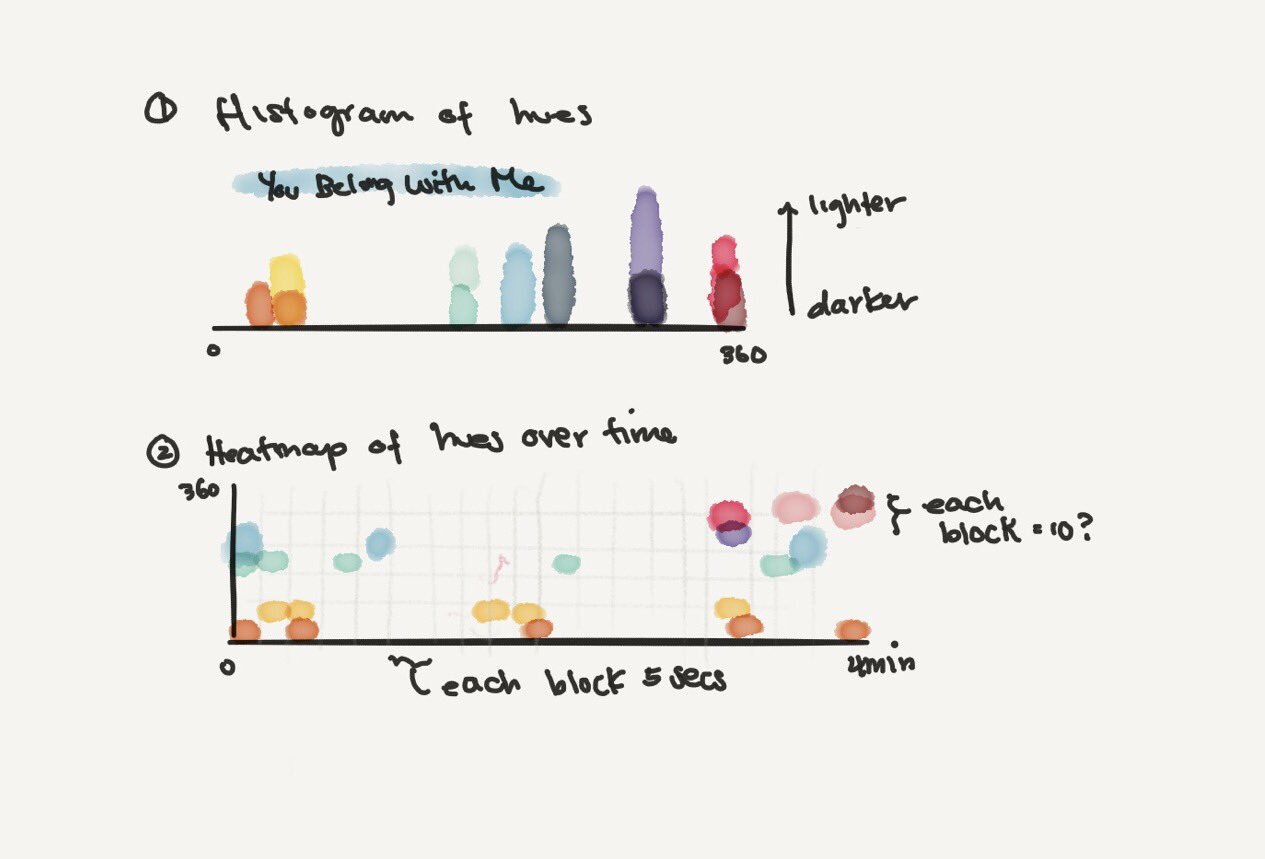
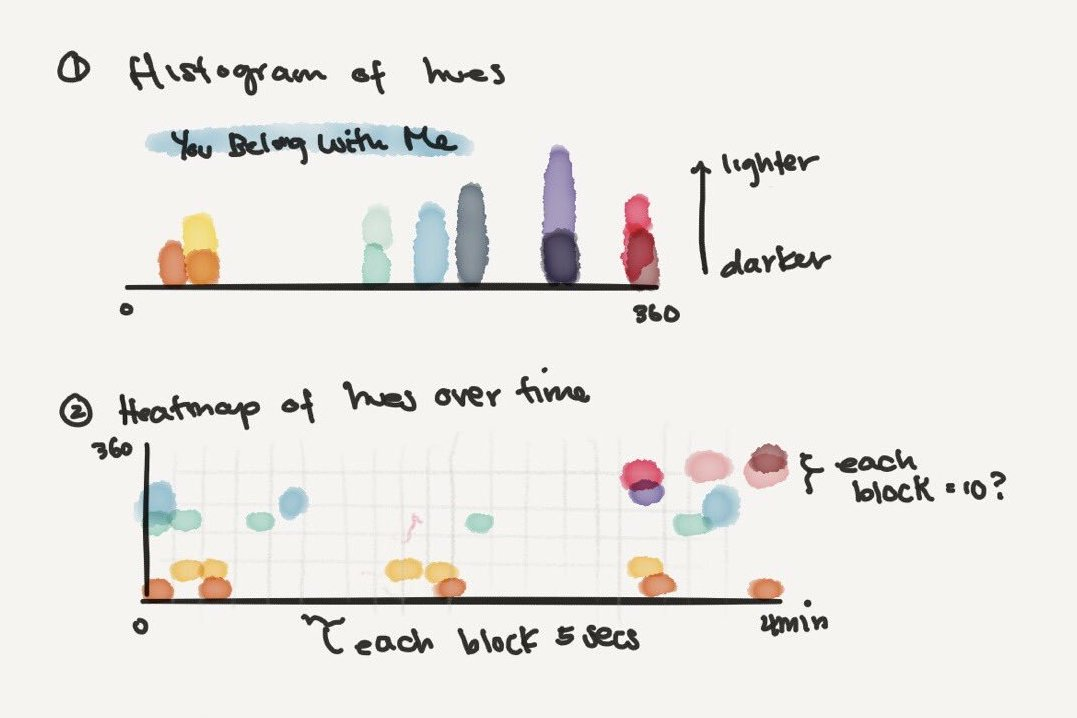
June version 1 writeup

diff --git a/june/index.html b/june/index.html
@@ -290,19 +290,70 @@
                   <li>For every image, grab the RGB information for every 5 pixels.  Plug all the colors into <a href='https://harthur.github.io/clusterfck/' target='_new'>clusterfck</a>, a Node package for hierarchical clustering (no longer maintained).  Save each cluster color and size (<a href='https://github.com/sxywu/taytay/blob/master/scripts/getClusterColors.js' target='_new'>getClusterColors.js</a>).</li>
                 </ol>
 
-                This was the result scene by scene (the x-axis is the hue, and the y-axis is the lightness):
+                This was the result scene by scene (the x-axis is the hue, and the y-axis is the lightness), which was pretty cool:
                 <a class="fancybox" href="code/shirley/v1_byscene.jpg"> <img src="code/shirley/v1_byscene.jpg" class="img-responsive img-month"></a>
                 And by video:
                 <a class="fancybox" href="code/shirley/v1_byvideo.png"> <img src="code/shirley/v1_byvideo.png" class="img-responsive img-month"></a>
+
+                I liked being able to see all the colors by video, but I didn't like that there was so much overlap.  So I thought of having a histogram of all the hues in a video, and a heatmap underneath so that I could see the spread of the colors scene by scene:
+                <a class="fancybox" href="sketch/shirley/tswift_sketch.jpg"> <img src="sketch/shirley/tswift_sketch.jpg" class="img-responsive img-month"></a>
+
+                The histogram turned out to be very aesthetically pleasing:
+                <a class="fancybox" href="code/shirley/histogram_light.png"> <img src="code/shirley/histogram_light.png" class="img-responsive img-month"></a>
+                <a class="fancybox" href="code/shirley/histogram_dark.png"> <img src="code/shirley/histogram_dark.png" class="img-responsive img-month"></a>
+                But I'm not sure if it told me anything other than that her MVs have a lot of oranges and blues.  Which makes sense, since most of the oranges are various lightness/saturations of her skin tone, and the blues are commonly used to dramatically complement the orange.  Nothing new or mind-blowing there.
               </p>
 
+              <p>
+                I tried to add in the heatmap for every song, where the x-axis is still the hue, but the y-axis is the time in the music video.  For some of the songs, like "Fifteen", I could see distinct scene changes:
+                <a class="fancybox" href="code/shirley/heatmap.png"> <img src="code/shirley/heatmap.png" class="img-responsive img-month"></a>
+                But for most of the songs there weren't anything too interesting to comment on, and the visualizations for each song took up too much screenspace.  I wasn't quite sure how to go forward with what I had, and for some reason I thought that if I wasn't getting (what I thought was) interesting with the detailed view, then I had to dig even <em>deeper</em>.
+              </p>
 
+              <p>
+                So I decided to build a tool where I could <em>filter each image by hue or saturation</em>.  It was so extra.  To accomplish it, I read the image data using Canvas and sent that image data (and the range of hue and saturation to filter by) to a Web Worker that looped through each pixel in the image and decided whether it could be kept or not.  I also tried using the GPU since each of the pixel calculations were self-contained, but (I think I was doing something wrong) it turned out to be slower than just using the Web Worker.  At one point, I even tried to send the data to the GPU from within the Web Worker, but found out that it wasn't supported in most browsers (this was early 2018).  It was all so unnecessary.  I think I just wanted to do it because it was technically fun, and it had nothing to do with whether the end result would be a good user experience.
+              </p>
+
+              <p>
+                But it did give some interesting results, especially when filtering down to just red colors: in 2006, she wore a red babydoll dress surrounded by red roses, the epitome of innocense.  In 2017, her red dress is deep cut, her lips are deep red, and she stands in front of a bright magenta background, parodying the way media portrays her.
+                <a class="fancybox" href="code/shirley/red_2006.png"> <img src="code/shirley/red_2006.png" class="img-responsive img-month"></a>
+                <em>Scenes from "Our Song", 2006</em>
+                <a class="fancybox" href="code/shirley/red_2017.png"> <img src="code/shirley/red_2017.png" class="img-responsive img-month"></a>
+                <em>Scenes from "Look What You Made Me Do", 2017</em>
+              </p>
+
+              <p>
+                This made me wonder if she ever repeated certain colors with certain objects across songs.  I went through every song and filtered by every hue of the rainbow.  I found that she frequently had red cars and trucks throughout her country songs, and red lips through her later pop songs.  That was cool, but it didn't feel like enough.
+              </p>
+
+              <p>
+                (NOTHING FELT LIKE ENOUGH 😭😱)
+              </p>
+
+              <p>
+                So I decided to try another approach: since going deep in a song didn't give me enough interesting things, I decided to go broad and see if there were interesting trends across the songs.  I went back to the histograms and grouped them by album:
+                <a class="fancybox" href="code/shirley/v1_byalbum.png"> <img src="code/shirley/v1_byalbum.png" class="img-responsive img-month"></a>
+                But the songs were still too far apart, and I wanted a way to quickly scan through the songs and see if there were any changes in hue, saturation, and lightness.  I sketched out two ideas: one that was a combination of beeswarm and line chart that would show saturation, and another that would group arrange the colors into a block or color wheel to show hue.
+                <a class="fancybox" href="sketch/shirley/changeovertime.jpg"> <img src="sketch/shirley/changeovertime.jpg" class="img-responsive img-month"></a>
+                The saturation went all over the place (maybe looking at lightness would have been more interesting?):
+                <a class="fancybox" href="code/shirley/saturation.png"> <img src="code/shirley/saturation.png" class="img-responsive img-month"></a>
+                And as for hue, there were some interesting songs, like "Love Song" that stayed almsot all yellow and green, or the three songs in 1989 that were mostly orange and blue.
+                <a class="fancybox" href="code/shirley/hue.jpg"> <img src="code/shirley/hue.jpg" class="img-responsive img-month"></a>
+                But for most other songs, there weren't any such clear delineations in hue that I could see, that would be worth writing about.
+              </p>
+
+              <p>
+                By now, I was really discouraged.  I had to admit to myself that I really didn't know much about color and especially color use in music videos, and that I should find a new angle.
+              </p>
 
               <h3>week 2 <span class="light-grey">|</span> sketch</h3>
 
               <p></p>
 
               <h3>week 3 & 4 <span class="light-grey">|</span> code</h3>
+
+              <p>
+              </p>
 
               <p>
                 Now that TS7 is so colorful, it might be fun to eventually finish the colors version.
